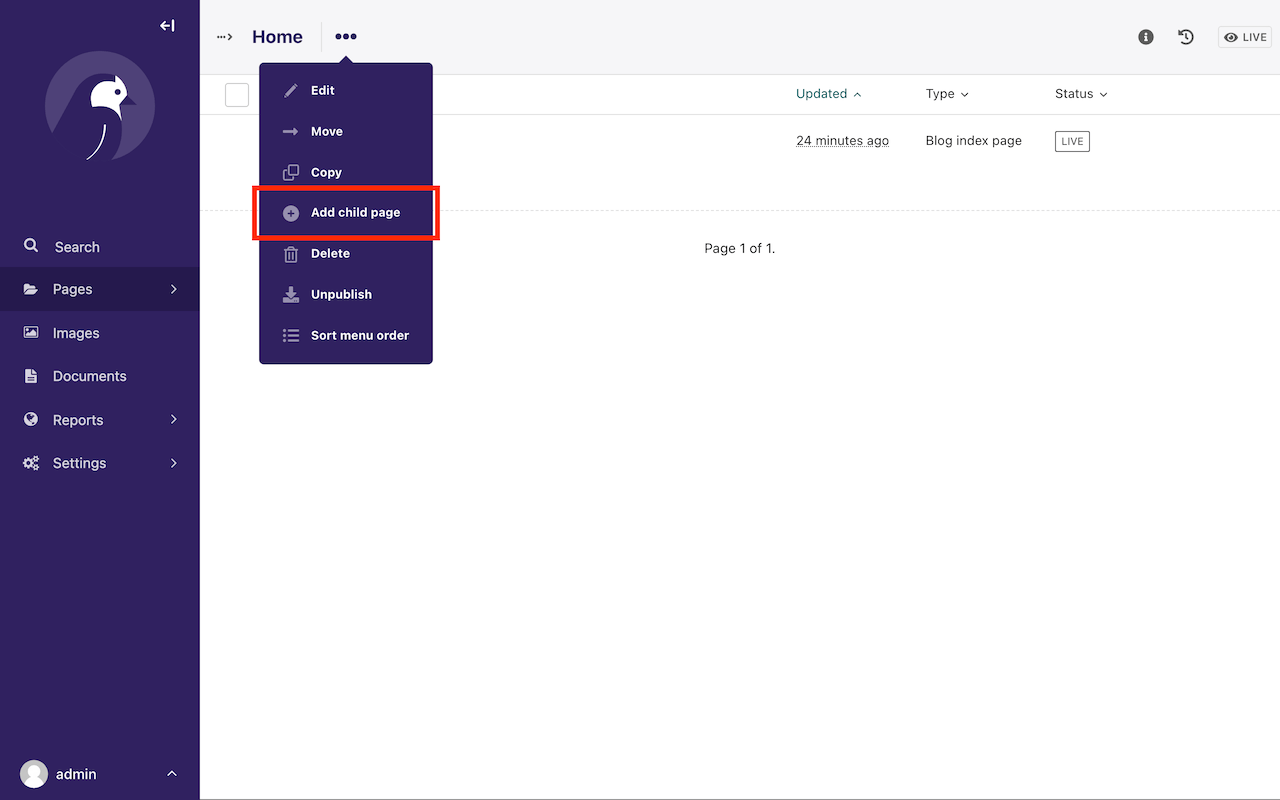
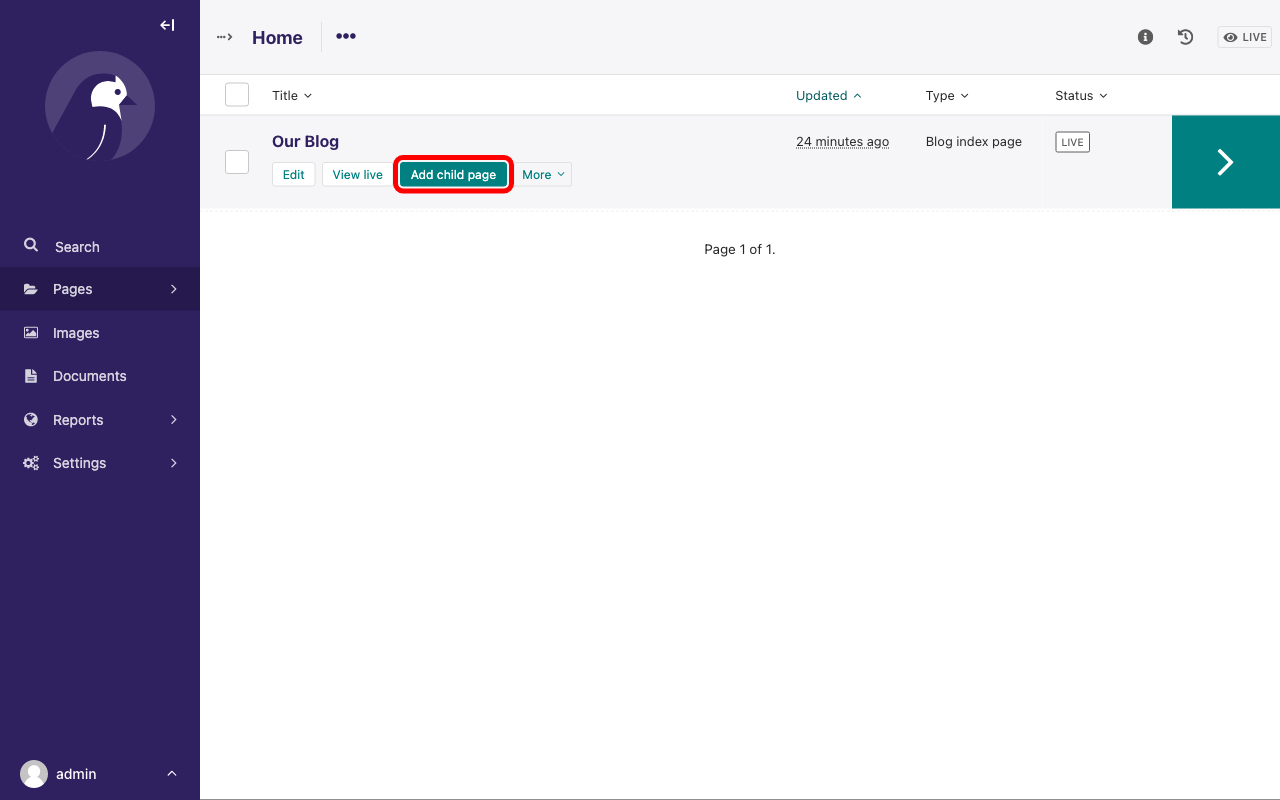
Update incorrect tutorial_4c illustration, highlighting the wrong button
misleading illustation for creating blog post as children of BlogIndexPage in line 335 corrected by adding image tutorial_4c.png

diff --git a/docs/getting_started/tutorial.md b/docs/getting_started/tutorial.md
@@ -334,7 +334,7 @@ URL of the blog this post is a part of.
 Now create a few blog posts as children of `BlogIndexPage`.
 Be sure to select type "Blog Page" when creating your posts.
 
-![Page listing for Home page, with the "Actions" dropdown expanded, and the "Add child page" highlighted in red](../_static/images/tutorial/tutorial_4a.png)
+![Page listing for Home page with the "Add Child Page" button highlighted in red](../_static/images/tutorial/tutorial_4a.png)
 
 !["Create a page in our blog" page type selector, with Blog page button highlighted in red](../_static/images/tutorial/tutorial_4b.png)
 

diff --git a/CONTRIBUTORS.rst b/CONTRIBUTORS.rst
@@ -631,6 +631,7 @@ Contributors
 * Dan Hayden
 * Jadesola Kareem
 * Dauda Yusuf
+* Damilola Oladele
 
 
 Translators
